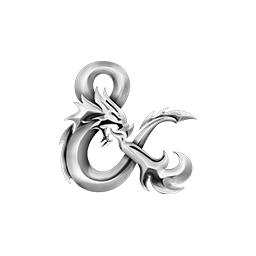
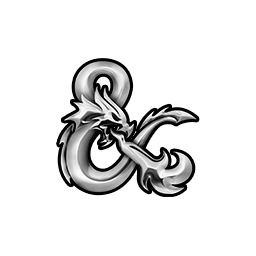
Update README.md, patchnotes.md, module/module.json, module/ui/dice/texture.png, module/ui/dice/nat20.png, module/scripts/dicefinder.js files Deleted module/ui/dice/redtexture.png

diff --git a/module/scripts/dicefinder.js b/module/scripts/dicefinder.js
@@ -29,20 +29,20 @@ Hooks.on('diceSoNiceReady', (dice3d) => {
     });
   
     dice3d.addTexture("PFred", {
-      name: "DnD5e Red",
+      name: "DnD5e Red Box",
       composite: "source-over",
-      source: "modules/dnd-ui/ui/dice/redTexture.png"
+      source: "modules/dnd-ui/ui/dice/Texture.png"
     })
     .then(() => {
         dice3d.addColorset({
           name: 'pf',
-          description: "DnD5e Red/Gold",
+          description: "DnD5e Red Box",
           category: "DnD5e",
           texture: 'PFred',
-          edge: '#d9a463',
-          foreground: '#d9a463',
+          background: ["#990000"],
+          foreground: '#e7e6e6',
+          outline: 'black',
           default: true
         },"default");
     });
   });
-  

diff --git a/patchnotes.md b/patchnotes.md
@@ -1,5 +1,8 @@
 # Patchnotes
 
+## v1.1.0
+- New theme for dice: DnD5e Red Box
+
 ## v1.0.1
 - Folder colors work now.
 

diff --git a/README.md b/README.md
@@ -1,2 +1,2 @@
-# DnD ui
+# DnD5e ui
 Theme for DnD5e, Fork of Pathfinder Ui
